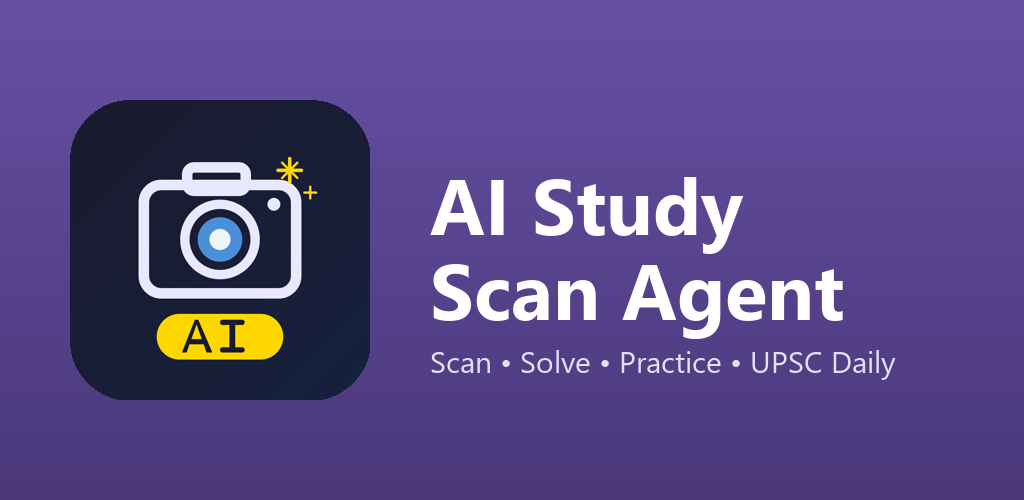
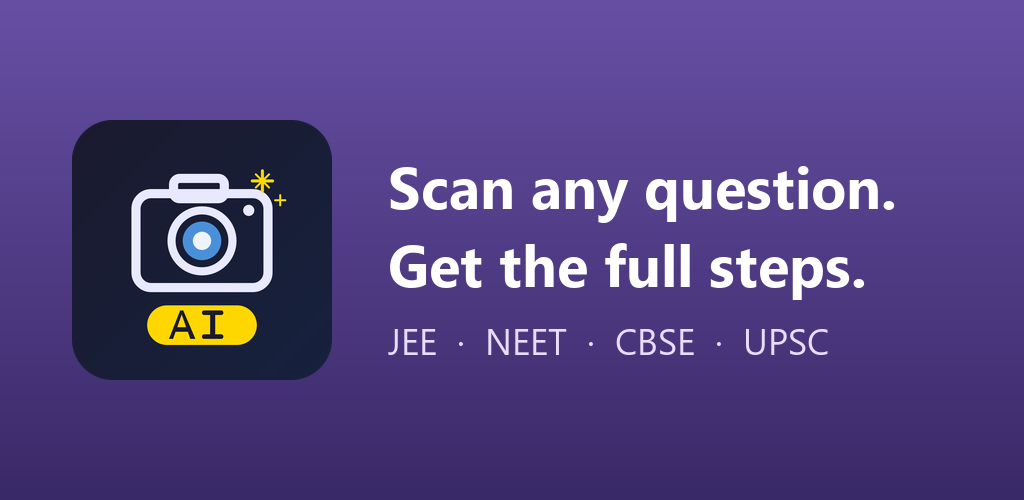
Fix Play graphics to spec, add a cancel link, correct the help text
The app icon file was 1024x1024 despite being named app-icon-512. Play
accepts exactly 512x512 and rejects anything else, so it could not have
been uploaded as-is. It is now generated at 512 by LANCZOS downsample from
a 1024 master, which is the sharpest result available at that size. There
is no 4K option anywhere in Play's asset specs.

The feature graphic said "AI Study Scan Agent" while the store title is
"AI Study Scanner Agent", and mentioned no exams. Replaced with a
benefit-led headline plus JEE/NEET/CBSE/UPSC, and no app name at all --
the title is still being decided and Play renders it alongside anyway.
Text now keeps a margin matching the left inset, since Play crops this
graphic differently per surface.

Pro subscribers get a real "Manage or cancel subscription" link rather
than only instructions. A subscriber who cannot find how to cancel asks
Google for a refund and leaves a one-star review instead.

The How to Use page still claimed a flat 10-per-day limit with no mention
of the ad top-up or Pro.

Changed region(s): [[0.0625, 0.18, 0.875, 0.81]]

diff --git a/android-app/AIStudyScanner/app/src/main/java/com/dineshyedla/aistudyscanner/screens/UpgradeScreen.kt b/android-app/AIStudyScanner/app/src/main/java/com/dineshyedla/aistudyscanner/screens/UpgradeScreen.kt
@@ -1,6 +1,8 @@
 package com.aistudyscanner.agent.screens
 
 import android.app.Activity
+import android.content.Intent
+import android.net.Uri
 import androidx.compose.foundation.layout.Arrangement
 import androidx.compose.foundation.layout.Column
 import androidx.compose.foundation.layout.Row
@@ -84,9 +86,25 @@ fun UpgradeScreen(onBack: () -> Unit) {
                         )
                     }
                 }
+                // A real link, not just instructions. Play expects cancelling to be
+                // easy to find, and a subscriber who cannot find it asks Google for a
+                // refund and leaves a one-star review instead.
+                OutlinedButton(
+                    onClick = {
+                        val url = "https://play.google.com/store/account/subscriptions" +
+                            "?sku=${BillingManager.PRODUCT_ID_PRO}" +
+                            "&package=${context.packageName}"
+                        runCatching {
+                            context.startActivity(Intent(Intent.ACTION_VIEW, Uri.parse(url)))
+                        }
+                    },
+                    modifier = Modifier.fillMaxWidth(),
+                ) {
+                    Text("Manage or cancel subscription")
+                }
                 Text(
-                    "Manage or cancel any time in the Play Store under " +
-                        "Payments and subscriptions.",
+                    "Cancelling stops future renewals. You keep Pro until the end of the " +
+                        "period you have already paid for.",
                     style = MaterialTheme.typography.bodySmall,
                     color = MaterialTheme.colorScheme.onSurfaceVariant,
                 )

diff --git a/android-app/AIStudyScanner/app/src/main/java/com/dineshyedla/aistudyscanner/screens/ExplainScreen.kt b/android-app/AIStudyScanner/app/src/main/java/com/dineshyedla/aistudyscanner/screens/ExplainScreen.kt
@@ -172,7 +172,9 @@ fun ExplainScreen(onBack: () -> Unit) {
                     )
                     Spacer(Modifier.height(4.dp))
                     Text(
-                        text = "You can solve 10 questions per day for free. The counter resets at midnight every day.",
+                        text = "You can solve 10 questions per day for free, and the " +
+                            "counter resets at midnight. Run out early? Watch a short " +
+                            "ad for 3 more, or go Pro for unlimited solves with no ads.",
                         style = MaterialTheme.typography.bodyMedium,
                     )
                 }

diff --git a/docs/make_store_graphics.py b/docs/make_store_graphics.py
@@ -1,0 +1,105 @@
+"""Generate the Play Store graphics at Google's exact required sizes.
+
+Play's asset sizes are fixed and small — there is no 4K option, and
+anything other than the exact dimensions is rejected:
+
+  app icon        512 x 512   (32-bit PNG)
+  feature graphic 1024 x 500
+  screenshots     up to 3840 px (see build_store_screenshots.py)
+
+The icon is downsampled from a 1024 master with LANCZOS, which is the sharpest
+result available at 512. The feature graphic deliberately carries no app name:
+the title is still being decided, Play renders the name alongside the graphic
+anyway, and a benefit headline with exam keywords does more work than a logotype.
+"""
+from PIL import Image, ImageDraw, ImageFont
+import pathlib
+
+DOCS = pathlib.Path(__file__).parent
+BRAND = (103, 80, 164)      # #6750A4, the app's primary purple
+BRAND_DEEP = (58, 41, 104)  # darker end of the gradient
+
+
+def load_font(size, bold=True):
+    names = (
+        ["segoeuib.ttf", "arialbd.ttf", "calibrib.ttf"]
+        if bold
+        else ["segoeui.ttf", "arial.ttf", "calibri.ttf"]
+    )
+    for n in names:
+        try:
+            return ImageFont.truetype(f"C:/Windows/Fonts/{n}", size)
+        except OSError:
+            continue
+    return ImageFont.load_default()
+
+
+def build_icon():
+    """512 x 512 exactly — the only size Play accepts for an app icon."""
+    master = DOCS / "app-icon-1024-master.png"
+    if not master.exists():
+        # First run: promote the existing 1024 file to be the master.
+        legacy = DOCS / "app-icon-512.png"
+        with Image.open(legacy) as im:
+            im.convert("RGBA").save(master, "PNG")
+
+    with Image.open(master) as im:
+        icon = im.convert("RGBA").resize((512, 512), Image.LANCZOS)
+    out = DOCS / "app-icon-512.png"
+    icon.save(out, "PNG")
+    print(f"{out.name:26} {icon.size[0]}x{icon.size[1]}"
+          "  (Play requires exactly 512x512)")
+    return master
+
+
+def build_feature_graphic(master):
+    """1024 x 500 exactly. Text stays well inside the edges: Play crops
+    this graphic per surface and edge text is the first casualty."""
+    W, H = 1024, 500
+    img = Image.new("RGB", (W, H))
+    d = ImageDraw.Draw(img)
+
+    # Diagonal-ish gradient, brand purple into a deeper shade.
+    for y in range(H):
+        t = y / (H - 1)
+        d.line(
+            [(0, y), (W, y)],
+            fill=(
+                int(BRAND[0] + (BRAND_DEEP[0] - BRAND[0]) * t),
+                int(BRAND[1] + (BRAND_DEEP[1] - BRAND[1]) * t),
+                int(BRAND[2] + (BRAND_DEEP[2] - BRAND[2]) * t),
+            ),
+        )
+
+    # App icon on the left, comfortably inside the safe area.
+    icon_px = 260
+    with Image.open(master) as im:
+        icon = im.convert("RGBA").resize((icon_px, icon_px), Image.LANCZOS)
+    img.paste(icon, (72, (H - icon_px) // 2), icon)
+
+    text_x = 72 + icon_px + 56
+    # Sized so the longest line keeps a right margin matching the left inset.
+    # Play crops this graphic differently per surface and edge text is lost first.
+    headline = load_font(58, bold=True)
+    sub = load_font(36, bold=False)
+
+    # Benefit first, in the student's words — not the product's architecture.
+    lines = ["Scan any question.", "Get the full steps."]
+    total = len(lines) * 78
+    y = (H - total) // 2 - 26
+    for line in lines:
+        d.text((text_x, y), line, font=headline, fill="white")
+        y += 78
+
+    d.text((text_x, y + 14), "JEE  ·  NEET  ·  CBSE  ·  UPSC",
+           font=sub, fill=(233, 221, 255))
+
+    out = DOCS / "feature-graphic.png"
+    img.save(out, "PNG")
+    print(f"{out.name:26} {W}x{H}"
+          "  (Play requires exactly 1024x500)")
+
+
+if __name__ == "__main__":
+    master = build_icon()
+    build_feature_graphic(master)
